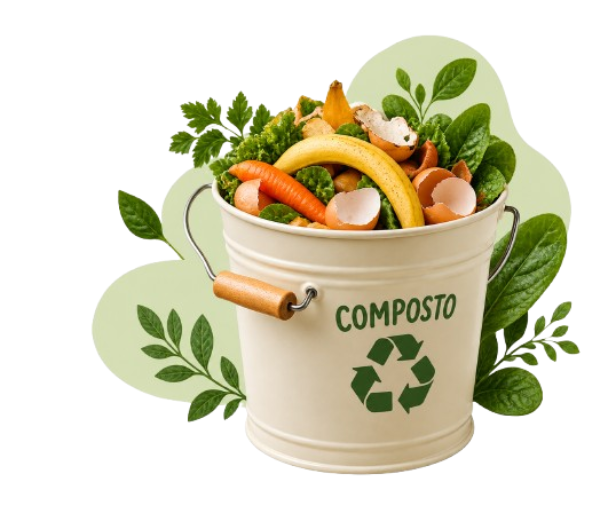
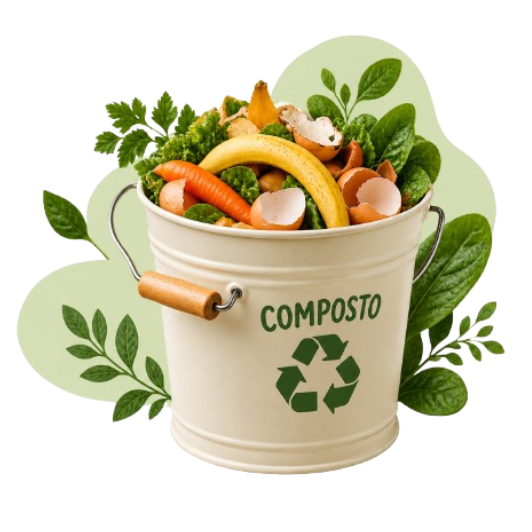
quinto commit

diff --git a/css/paginaLixo.css b/css/paginaLixo.css
@@ -121,6 +121,9 @@ body {
     color: #596052;
 }
 
+.hero-banner{
+    display: flex;
+}
 
 /* =========================
    FORMA VERDE
@@ -140,6 +143,18 @@ body {
     background: var(--green-soft);
 
     border-radius: 50%;
+
+    z-index: 5;
+}
+
+.hero-img{
+    z-index: 20;
+
+    height: 300px;
+
+    width: 300px;
+
+    margin: 0px 100px 100px 100px;
 }
 
 

diff --git a/index/PaginaLixo.html b/index/PaginaLixo.html
@@ -64,7 +64,10 @@
 
             </div>
 
-            <div class="hero-forma"></div>
+            <div class="hero-banner">
+                <div class="hero-forma"></div>
+                <img class="hero-img" src="../imagens/composto.png">
+            </div>    
 
         </section>
 
